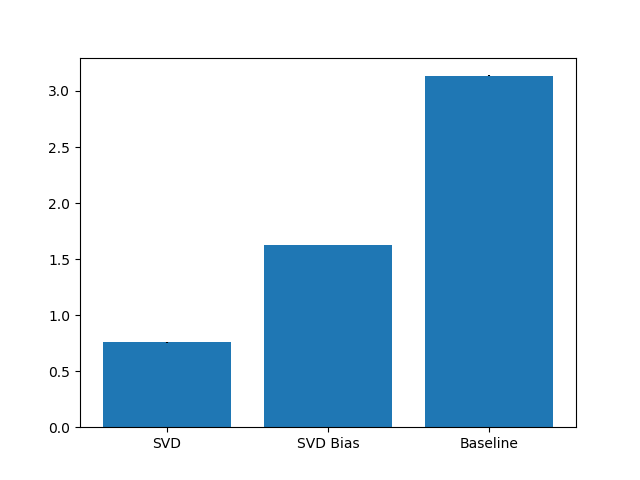
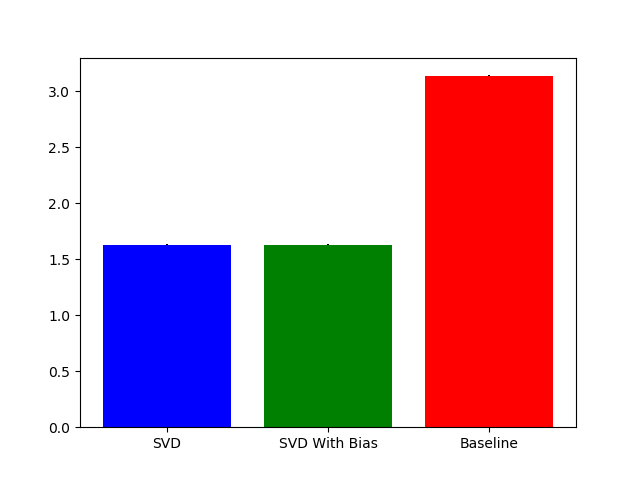
Added Labels and CSV generation for results

diff --git a/source/latent.py b/source/latent.py
@@ -7,6 +7,7 @@ import os
 import pickle
 import pandas as pd
 import numpy as np
+import csv
 from surprise import AlgoBase
 from surprise import BaselineOnly
 from surprise import NormalPredictor
@@ -78,12 +79,31 @@ def plot_performance(setNum, num_factors, reg_term):
     train_res = [np.mean(cv_svd['train_rmse']), np.mean(cv_svd_bias['train_rmse']),np.mean(cv_baseline['train_rmse'])]
     test_err = [np.std(cv_svd['test_rmse']), np.std(cv_svd_bias['test_rmse']),np.std(cv_baseline['test_rmse'])]
     train_err = [np.std(cv_svd['train_rmse']), np.std(cv_svd_bias['train_rmse']),np.std(cv_baseline['train_rmse'])]
-    plt.bar(['SVD', 'SVD With Bias', 'Baseline'], test_res, yerr=test_err, color=['blue', 'green', 'red'])
+    algs = ['SVD', 'SVD With Bias', 'Baseline']
+
+    # First Bar Chart for Training
+    plt.bar(algs, test_res, yerr=test_err, color=['blue', 'green', 'red'])
+    plt.title('Training RMSE for 3 Models on Training Set '+str(setNum))
+    plt.xlabel('Model')
+    plt.ylabel('RMSE')
     plt.savefig('/Users/annascomputer/Documents/GitHub/ML-Final-Project/ValidationBarChart'+str(setNum))
     plt.show()
-    plt.bar(['SVD', 'SVD With Bias', 'Baseline'], train_res, yerr=train_err, color=['blue', 'green', 'red'])
+
+    # Second Bar CHart for Validation
+    plt.bar(algs, train_res, yerr=train_err, color=['blue', 'green', 'red'])
     plt.savefig('/Users/annascomputer/Documents/GitHub/ML-Final-Project/TrainingBarChart'+str(setNum))
+    plt.title('Testing RMSE for 3 Models on Training Set '+str(setNum))
+    plt.xlabel('Model')
+    plt.ylabel('RMSE')
     plt.show()
+
+    # Save data from these charts
+    with open('/Users/annascomputer/Documents/GitHub/ML-Final-Project/Testing RMSE for 3 Models on Training Set '+str(setNum)+'.csv', mode='w') as f:
+        w = csv.writer(f, delimiter=',', quotechar='"', quoting=csv.QUOTE_MINIMAL)
+        w.writerow(['Factors = ' + str(num_factors)+ ', Reg = '+ str(reg_term)])
+        w.writerow(['Alg', 'Testing Result', 'Testing STD', 'Validation Result', 'Validation STD'])
+        for i in range(4):
+            w.writerow([algs[i], test_res[i], test_err[i], train_res[i], train_err[i]])
 
 def vary_factors(setNum, n_factors):
 
